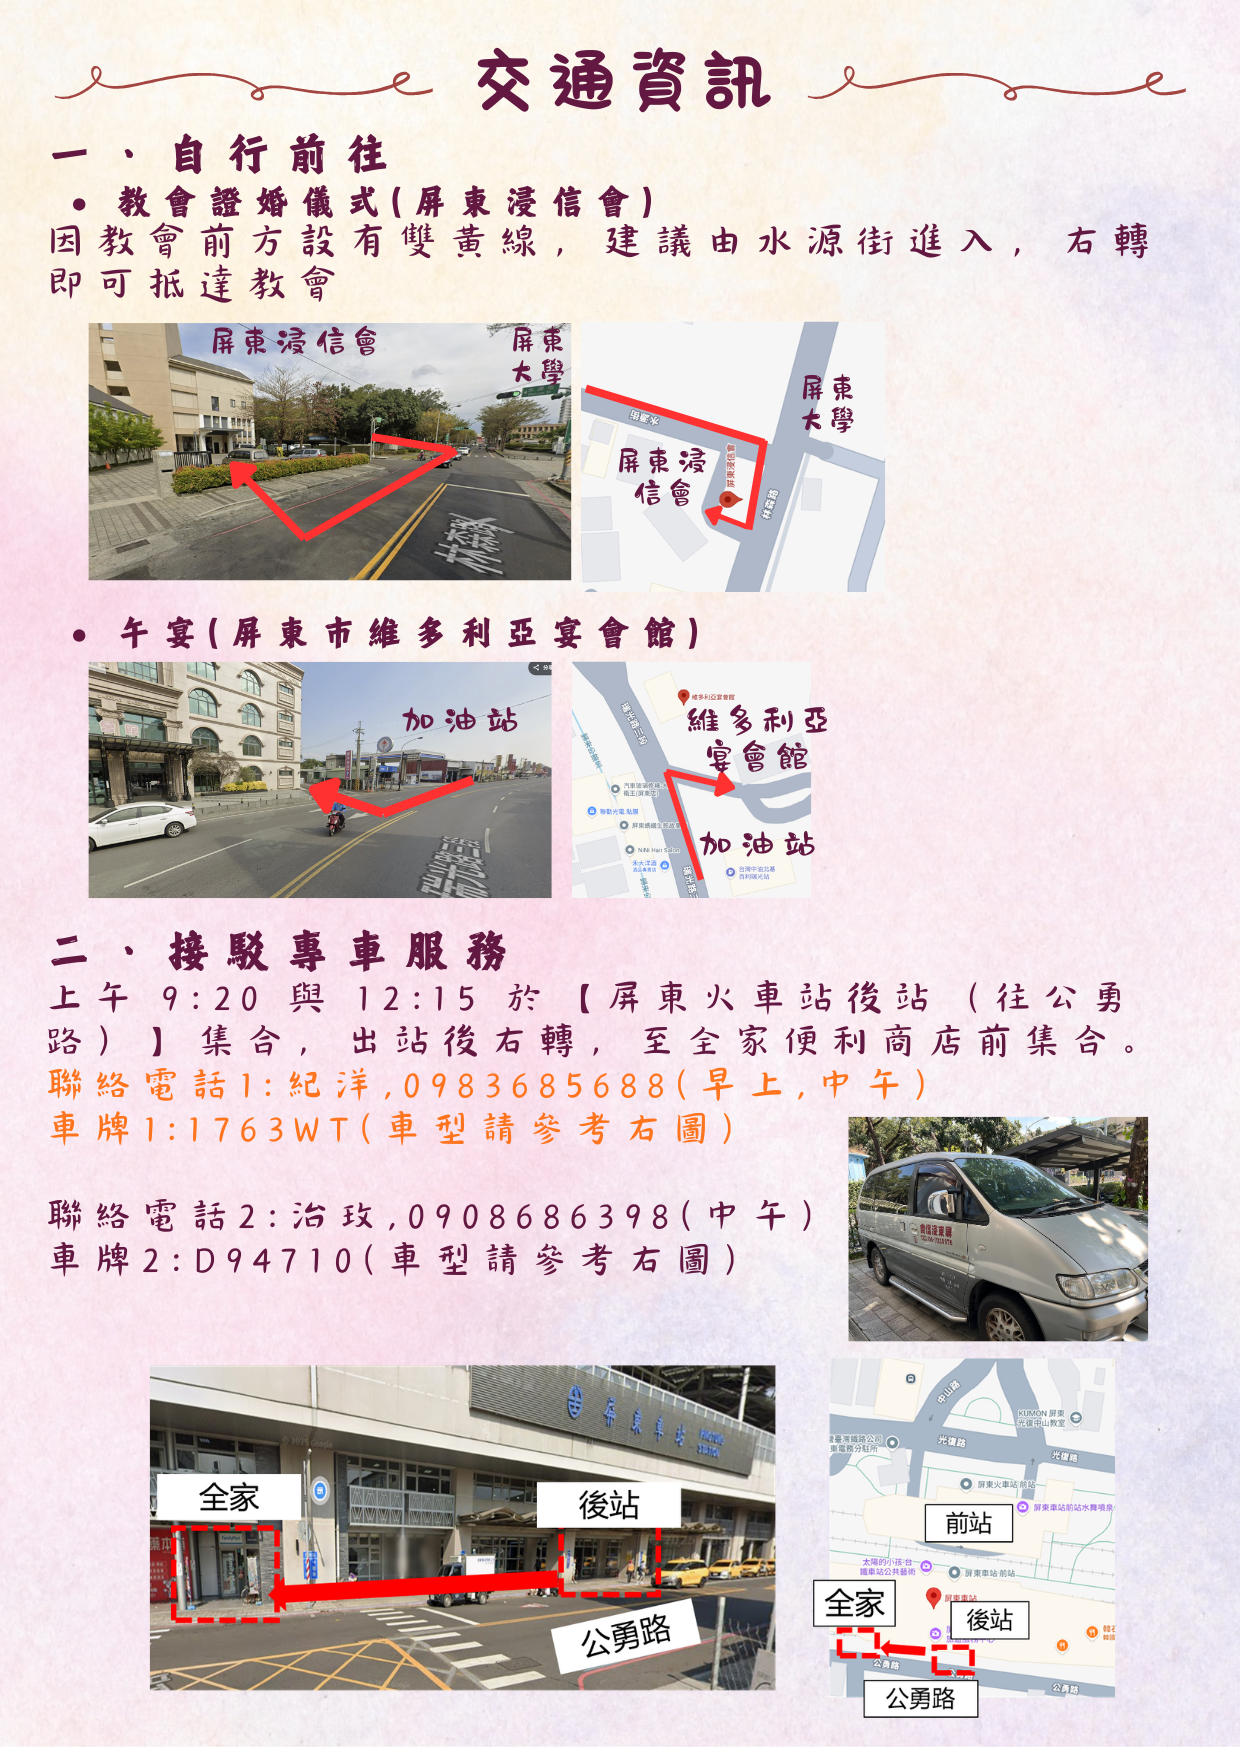
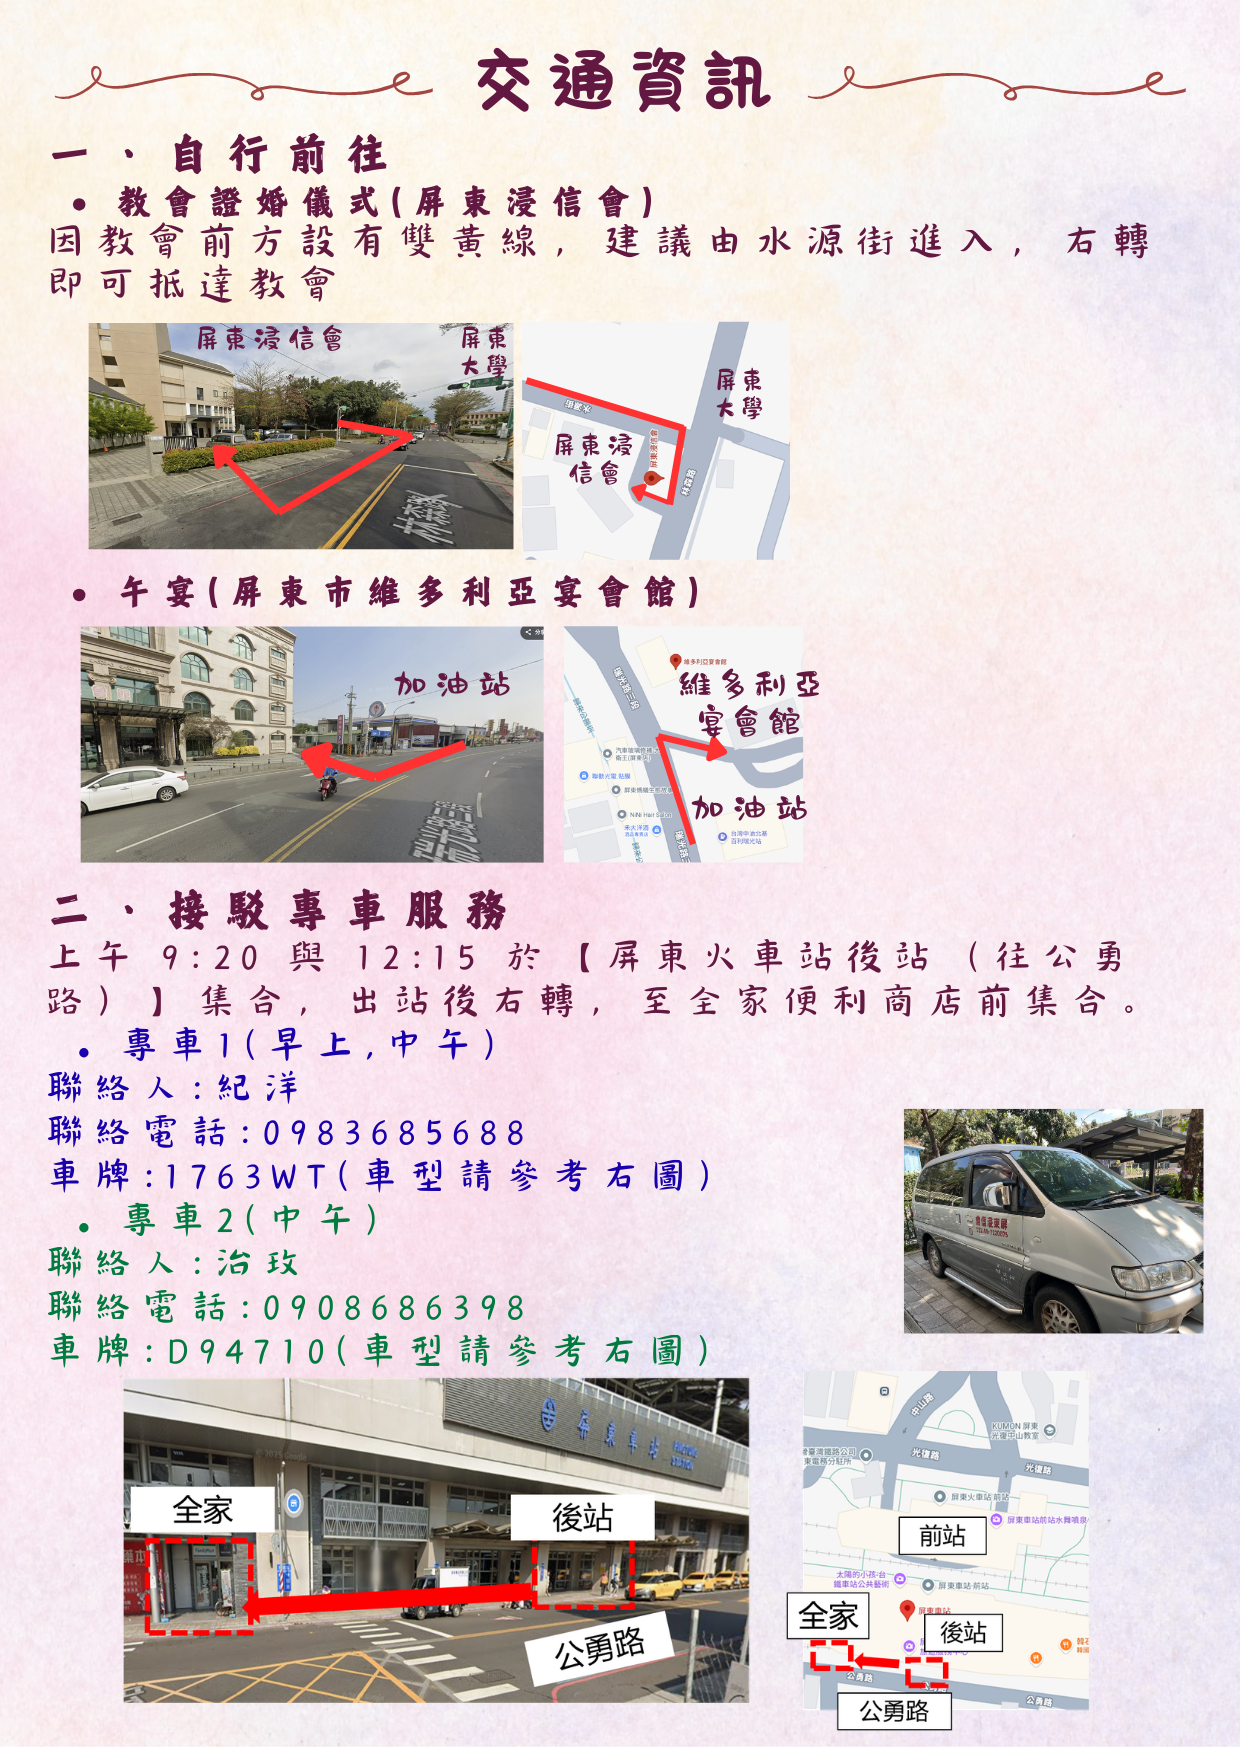
first commit

Changed region(s): [[0.0306, 0.1854, 0.9806, 1.0], [0.6129, 0.6796, 0.6435, 0.7105]]

diff --git a/index.html b/index.html
@@ -318,7 +318,7 @@ body.open .envFlap{
         <img src="assets/page2.png" style="width:100%; display:block;">
       </section>
 
-  <!-- <section class="page">
+  <section class="page">
     <div onclick="window.open('https://docs.google.com/forms/d/e/1FAIpQLSepHyoOZzPUwyCf1KPVupWtb-9ZwFAGm5eyyOmQjuB9AxaFbg/viewform?usp=sharing&ouid=103429032752878794749','_blank')">
       <video
         src="assets/page3.mp4"
@@ -329,7 +329,7 @@ body.open .envFlap{
         style="width:100%; display:block;">
       </video>
     </div>
-  </section> -->
+  </section>
   <section class="page">
     <img src="assets/page4.png" style="width:100%; display:block;">
     <button class="closeBtn" id="closeBottom">
